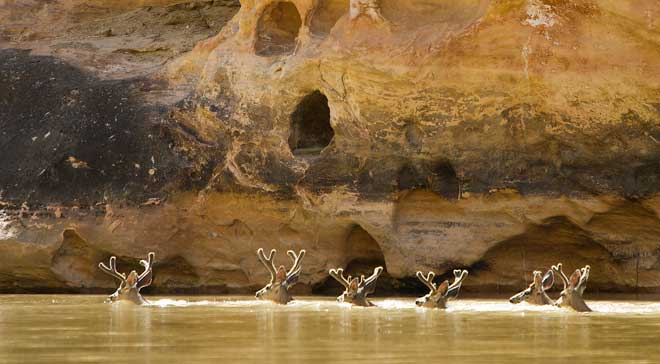
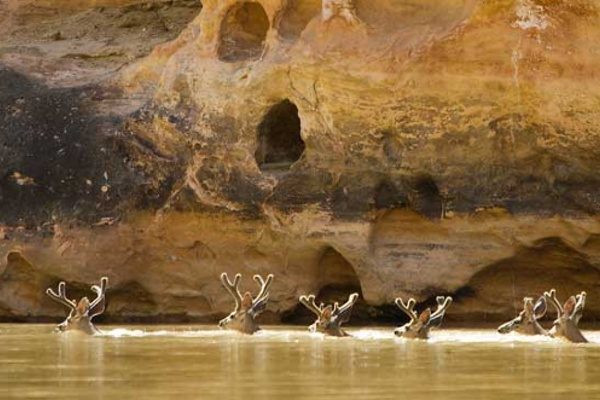
wwr/about

diff --git a/wwr/styles/rafting.css b/wwr/styles/rafting.css
@@ -131,7 +131,8 @@
     .history img {
         width: 400px;
         height: auto;
-        border: 4.5px solid;
+        border: 4px solid;
+        padding: 2px;
         border-color: #688F9A;
     }
 
@@ -183,13 +184,22 @@
         unicode-bidi: isolate;
     }
 
-    .image-container-figure {
+    figcaption {
+        background-color: #ffffff;
+        color: var(--paragraph-font);
+        padding: 1px;
+        text-align: center;
+      }
+
+    .image-container figure {
         display: flex;
         flex-flow: column;
-        padding: 10px;
-        max-width: 100%;
+        padding: 2px;
+        width: 150px;
+        height: auto;
         margin: auto;
-        border: solid #28606F;
+        border: #688F9A 4px solid;
+        margin-bottom: 15px;
     }
 
     
